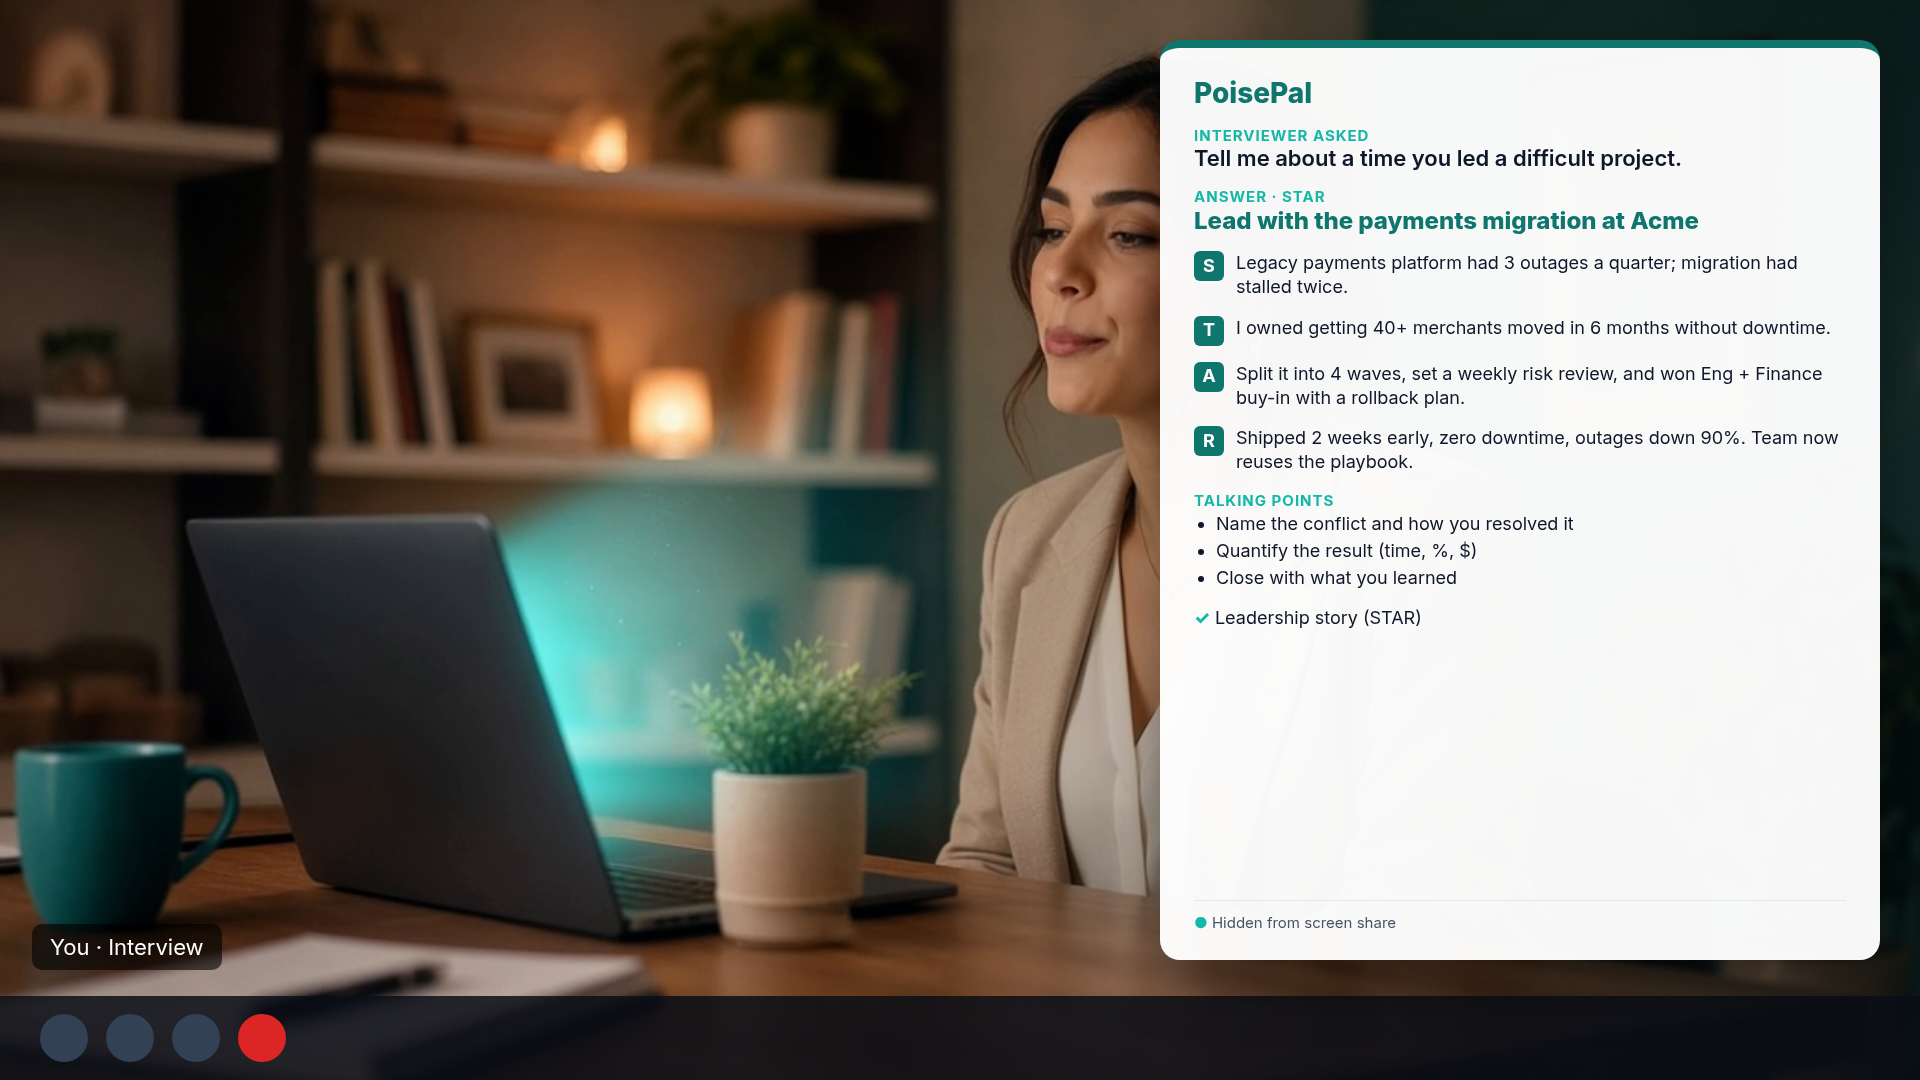
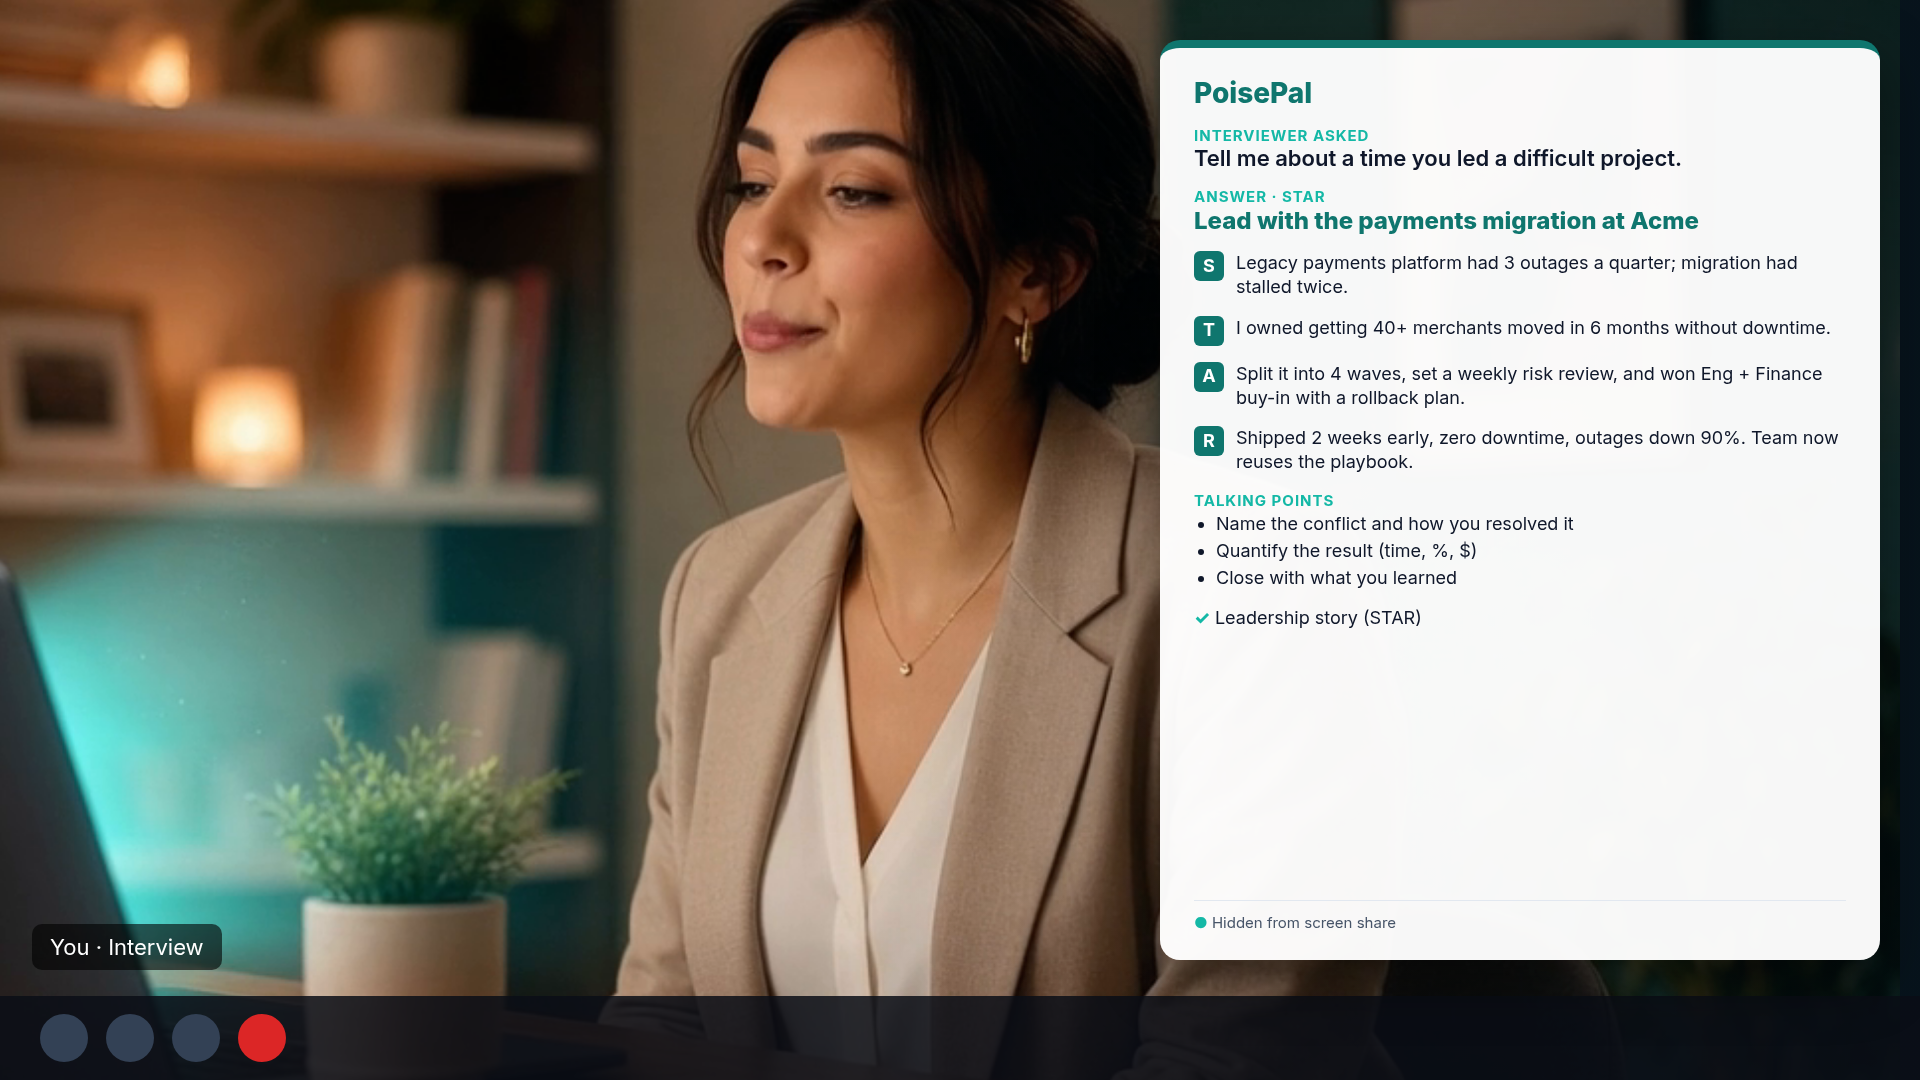
Reframe woman photo so her face is fully visible left of overlay

diff --git a/screenshots/mock/overlay-qa.html b/screenshots/mock/overlay-qa.html
@@ -1,6 +1,6 @@
 <!doctype html><html><head><meta charset="utf-8"><style>
 *{box-sizing:border-box;margin:0}body{width:1920px;height:1080px;font-family:Inter,"DejaVu Sans",Arial,sans-serif;background:#0b1220;overflow:hidden;position:relative}
-.call{position:absolute;left:0;top:0;width:1920px;height:1080px;background:url(woman.png) 30% center/cover}
+.call{position:absolute;left:0;top:0;width:1920px;height:1080px;background:url(woman.png) -640px -120px/2540px auto no-repeat}
 .call:after{content:"";position:absolute;inset:0;background:linear-gradient(90deg,rgba(0,0,0,0) 45%,rgba(4,20,24,.55) 100%)}
 .tag{position:absolute;left:32px;bottom:110px;background:rgba(0,0,0,.6);color:#fff;padding:10px 18px;border-radius:10px;font-size:22px;z-index:2}
 .bar{position:absolute;left:0;right:0;bottom:0;height:84px;background:rgba(10,14,22,.85);z-index:2;display:flex;gap:18px;align-items:center;padding-left:40px}.bar i{width:48px;height:48px;border-radius:50%;background:#334155}.bar i.r{background:#dc2626}
